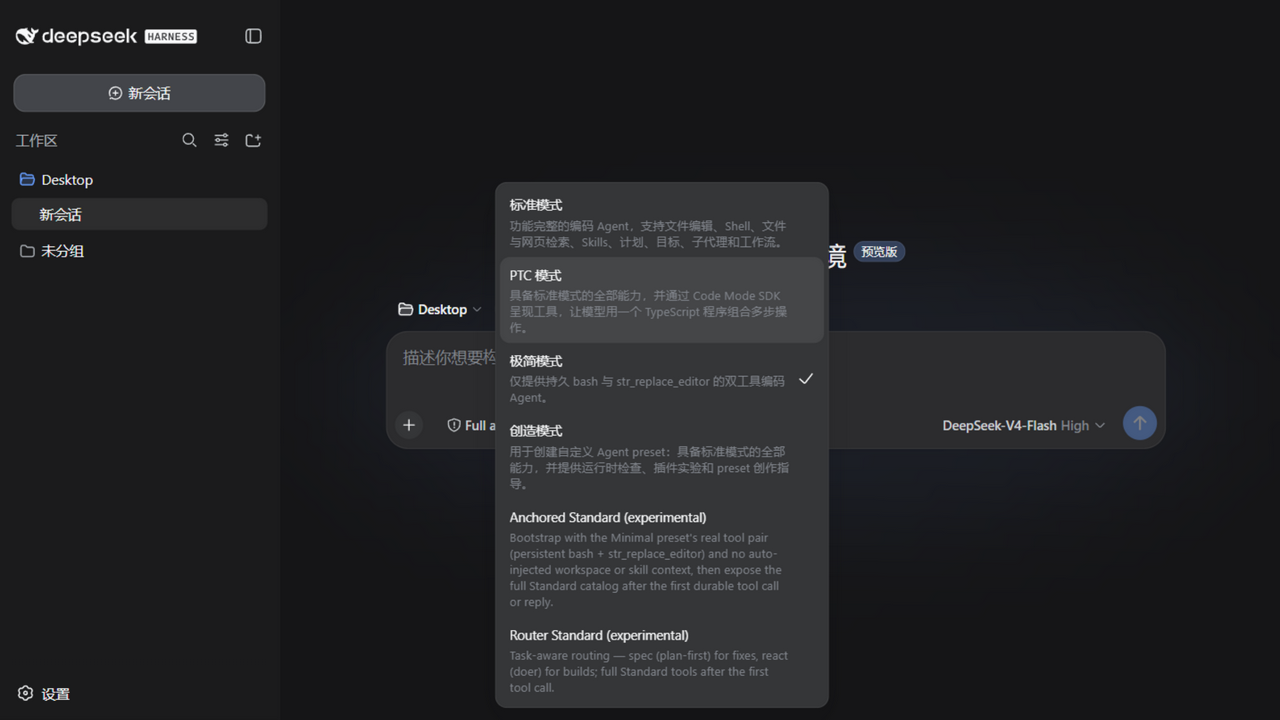
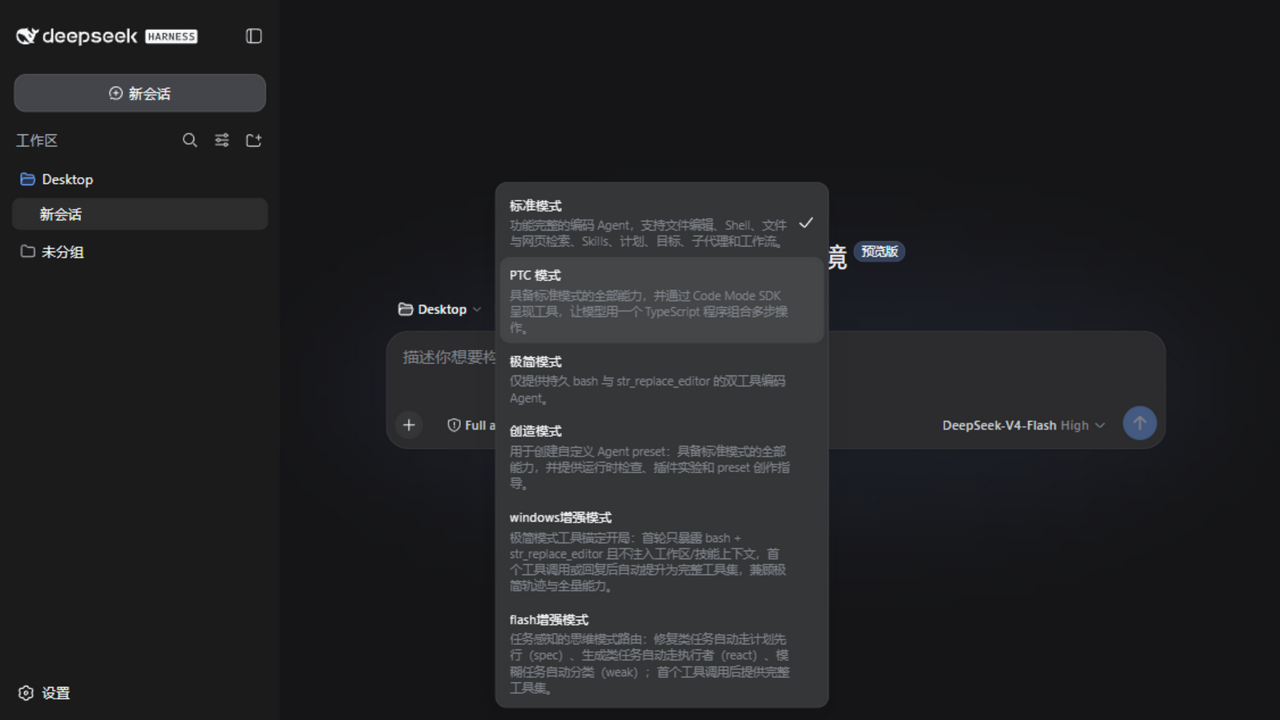
docs: dual launch modes (WebUI + WinUI) and refreshed preset menu screenshot

diff --git a/README.md b/README.md
@@ -97,6 +97,17 @@ BepInEx 式插件注入入口：任意本地 DSH 插件可**免重启注入**运
 2. 新建会话，可在预设菜单选择 **windows增强模式** 或 **flash增强模式**
 3. 在设置 → 窗口图标样式 选择喜欢的图标
 
+## 🖥 两种启动方式（WebUI 与 WinUI 都支持）
+
+本封装**同时支持**命令行 WebUI 与原生桌面（WinUI）两种形态，数据完全互通：
+
+| 形态 | 启动方式 | 特点 |
+|---|---|---|
+| **WebUI（浏览器版）** | `npx dsh web` → 访问 `http://127.0.0.1:3080` | 官方 CLI 形态，适合开发者/脚本调用；需本机有 Node.js 环境 |
+| **WinUI（桌面版）** | 双击 `DShHarness.exe` | Electron 原生窗口，免命令行、免装 Node，内置同一套 Web UI + 任务栏鲸鱼图标 |
+
+> 💡 两者共用 `~/.dsh`（会话、插件、图标样式设置互通），可随意切换使用。注意**同一时间只运行一个**（都监听 3080 端口；桌面版会自动检测占用并切随机端口，但建议一次开一个）。
+
 ---
 
 ## 🔧 本封装相对上游的全部改动
